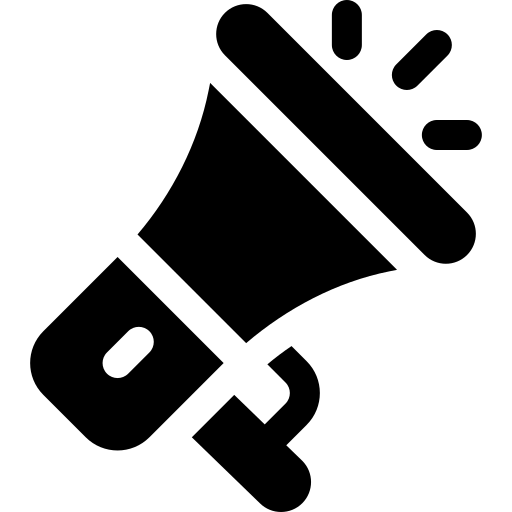
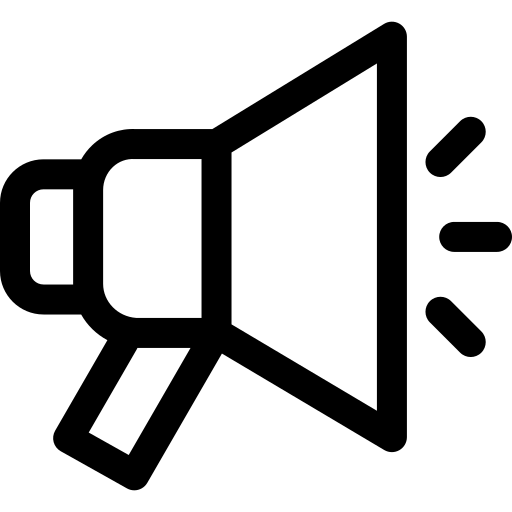
edited design bugs

diff --git a/src/components/pages/campaign.js b/src/components/pages/campaign.js
@@ -1,15 +1,15 @@
-
 import React, { Component } from 'react';
 import { View, Text, StyleSheet, TouchableOpacity,Dimensions,Image,} from 'react-native';
 import { Actions } from 'react-native-router-flux';
 import { FlatList } from 'react-native-gesture-handler';
+// import GlobalFont from 'react-native-global-font';
 
 const data = [
-  { id: "1", title: "this is a campaign", backgroundColor: '#fefddb' },
-  { id: "2", title: "this is a campaign", backgroundColor: '#fbe8e7' },
-  { id: "3", title: "this is a campaign", backgroundColor: '#f2e5fd' },
-  { id: "4", title: "this is a campaign", backgroundColor: '#dff3fe' },
-  { id: "5", title: "this is a campaign", backgroundColor: '#f2e5fd' },
+  { id: "1", title: "this is a campaign", backgroundColor: '#fefddb',uri:'https://envato-shoebox-0.imgix.net/0d80/552a-aceb-4181-bf08-49c70144d9e5/Goods-35.jpg?auto=compress%2Cformat&fit=max&mark=https%3A%2F%2Felements-assets.envato.com%2Fstatic%2Fwatermark2.png&markalign=center%2Cmiddle&markalpha=18&w=1600&s=2f6fc6c7c3d02481ddd5a74a401fc4f7' },
+  { id: "2", title: "this is a campaign", backgroundColor: '#fbe8e7',uri:'https://envato-shoebox-0.imgix.net/8f42/9f4c-983e-4bf6-a731-22aaa077a810/IMG_7912.jpg?auto=compress%2Cformat&fit=max&mark=https%3A%2F%2Felements-assets.envato.com%2Fstatic%2Fwatermark2.png&markalign=center%2Cmiddle&markalpha=18&w=1600&s=ee3910220eb35658fe4081fff890a79d' },
+  { id: "3", title: "this is a campaign", backgroundColor: '#f2e5fd',uri:'https://envato-shoebox-0.imgix.net/673e/e016-3db3-46fd-880e-c15f03db6666/smporidge3.jpg?auto=compress%2Cformat&fit=max&mark=https%3A%2F%2Felements-assets.envato.com%2Fstatic%2Fwatermark2.png&markalign=center%2Cmiddle&markalpha=18&w=1600&s=b7faa4619db6f2eba586f9a7fb36c98c' },
+  { id: "4", title: "this is a campaign", backgroundColor: '#dff3fe',uri:'https://envato-shoebox-0.imgix.net/d7ee/ab79-15b1-4b4e-99ad-acbf947f3f0e/200102571A3173.jpg?auto=compress%2Cformat&fit=max&mark=https%3A%2F%2Felements-assets.envato.com%2Fstatic%2Fwatermark2.png&markalign=center%2Cmiddle&markalpha=18&w=1600&s=90b6e1975a18ceee89f018fbc31c328d' },
+  { id: "5", title: "this is a campaign", backgroundColor: '#f2e5fd',uri:'https://envato-shoebox-0.imgix.net/3c7a/f0a0-ffd7-4060-9305-00d5cb2e6c85/44986.jpg?auto=compress%2Cformat&fit=max&mark=https%3A%2F%2Felements-assets.envato.com%2Fstatic%2Fwatermark2.png&markalign=center%2Cmiddle&markalpha=18&w=1600&s=bd9eaecbaa83cecfbd3fef6ee50a6170' },
 ]
 
 const PhoneWidth  = Dimensions.get("window").width;
@@ -21,6 +21,11 @@ export default class campaign extends Component {
     this.state = {
     };
   }
+
+// componentDidMount() {
+//     let fontName = 'AbrilFatface-Regular'
+//     GlobalFont.applyGlobal(fontName)
+// }
   campaignRenderItem=({item}) => {
     return(
     <View style = {styles.campaignBox}>
@@ -31,10 +36,10 @@ export default class campaign extends Component {
           <Image
             style={styles.photoOfCampaign}
             source={{
[1 lines of base64/hex data omitted]
+              uri : item.uri
             }}
           />
-          <Text style={styles.campaignTxt}> {item.title} </Text>
+         <Text style={styles.campaignTxt}> {item.title} </Text>
         </View>
       </TouchableOpacity>
     </View>
@@ -58,6 +63,11 @@ const styles = StyleSheet.create({
   container:{
     flex:1
   },
+  campaignTxt:{
+    position:'absolute',
+    zIndex:22,
+    textAlign:'left'
+  },
   body:{
     borderWidth:0,
     backgroundColor: "white",
@@ -79,12 +89,13 @@ const styles = StyleSheet.create({
   },
   campaignWrapper:{
     height:PhoneHeight*0.2,
-    alignItems:'center',
-    borderRadius:20
+    justifyContent:'flex-end',
+    borderRadius:20,
   },
   photoOfCampaign:{
-    height:40,
-    width:40
+    height:PhoneHeight*0.2,
+    width:PhoneWidth*0.9,
+    borderRadius:20, 
   }
 
 })

diff --git a/src/router.js b/src/router.js
@@ -14,6 +14,7 @@ import favourites from './components/pages/favourites';
 import newProducts from './components/pages/newProducts';
 import opportunity from './components/pages/opportunity';
 import campaignDetail from './components/pages/campaignDetail';
+import { color } from 'react-native-reanimated';
 // import { PhoneWidth } from './components/config/env';
 
 class RouterComp extends Component {
@@ -30,34 +31,35 @@ class RouterComp extends Component {
             <Stack  initial navigationBarStyle={styles.navigationBar} key="main">
                             
     <Tabs
-                hideNavBar
-                showLabel={true}
+             hideNavBar
+                showLabel={false}
+                labelStyle={styles.label}
                 tabBarStyle={styles.tabs}>
                 <Scene
                     initial
                     key="anasayfa"
                     component={index} 
-                    title="E-TİCARET"
+                    title ="E-TİCARET"
                     icon={({focused}) => (
-                    <Image style={styles.tabIcon} source={focused ? require('./images/homepage.png'):require('./images/homepage.png')} />)} />
+                    <Image style={styles.tabIcon} source={focused ? require('./images/homepageColorful.png'):require('./images/homepage.png')} />)} />
                 <Scene
                     key="diet"
                     title="ARAMA"
                     icon={({focused}) => (
-                    <Image style={styles.tabIcon} source={focused ? require('./images/magnifierRed.png'):require('./images/magnifier.png')} />)}
+                    <Image style={styles.tabIcon} source={focused ? require('./images/searchColorful.png'):require('./images/search.png')} />)}
                     component={search} />
                 <Scene
                     key="cart"
                     title="SEPETİM"
                     icon={({focused}) => (
-                    <Image style={styles.tabIcon} source={focused ? require('./images/bag.png'):require('./images/shopping-bag.png')} />)}
+                    <Image style={styles.tabIcon} source={focused ? require('./images/shoppingCartColorful.png'):require('./images/shoppingCart.png')} />)}
                     component={cart} />
                 
                 <Scene
                     key="campaign"
                     title="KAMPANYALAR"
                     icon={({focused}) => (
-                    <Image style={styles.tabIcon} source={focused ? require('./images/megaphoneColorful.png'):require('./images/megaphone.png')} />)}
+                    <Image style={styles.tabIcon} source={focused ? require('./images/megaPhoneColorful.png'):require('./images/megaPhone.png')} />)}
                     component={campaign} />
                 <Scene
                     navigationBarStyle={{ backgroundColor: '#FE5F55' }}
@@ -107,10 +109,15 @@ class RouterComp extends Component {
         zIndex: 1, 
     },
     tabIcon: {
-        paddingHorizontal:13,
+        paddingHorizontal:11,
         width: responsiveSize(19),
         height: responsiveSize(19),
     },
+    labelStyle: {
+        fontSize: 12,
+        color: 'red',
+    
+      },
     
     
    

diff --git a/react-native.config.js b/react-native.config.js
@@ -1,0 +1,8 @@
+
+module.exports = {
+    project: {
+      ios: {},
+      android: {}, // grouped into "project"
+    },
+    assets: ["./assets/fonts"], // stays the same
+  };
